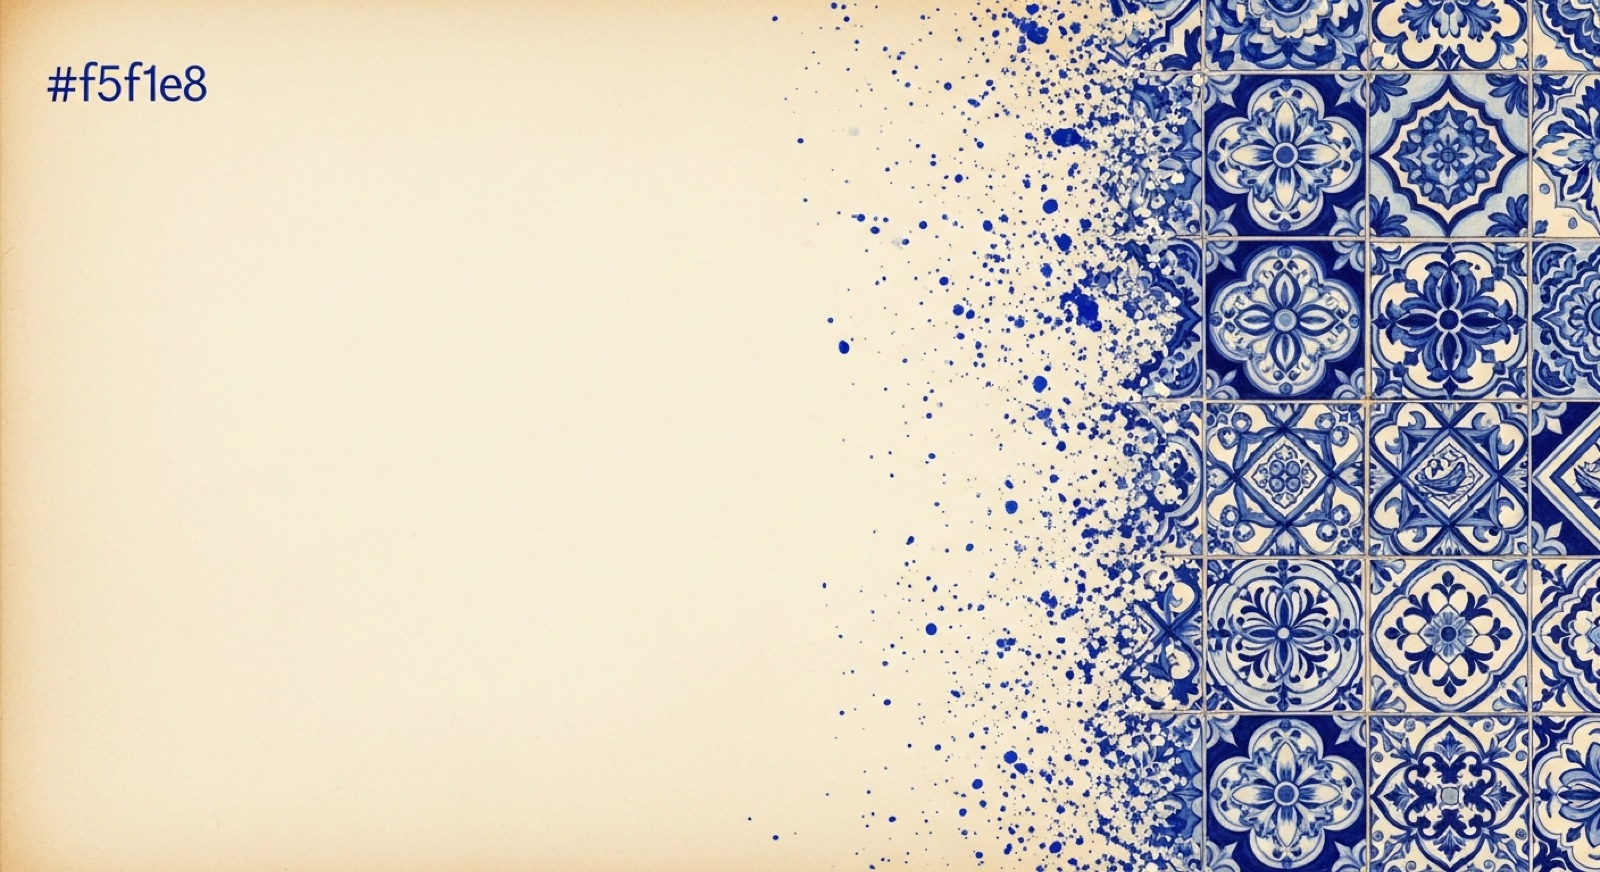
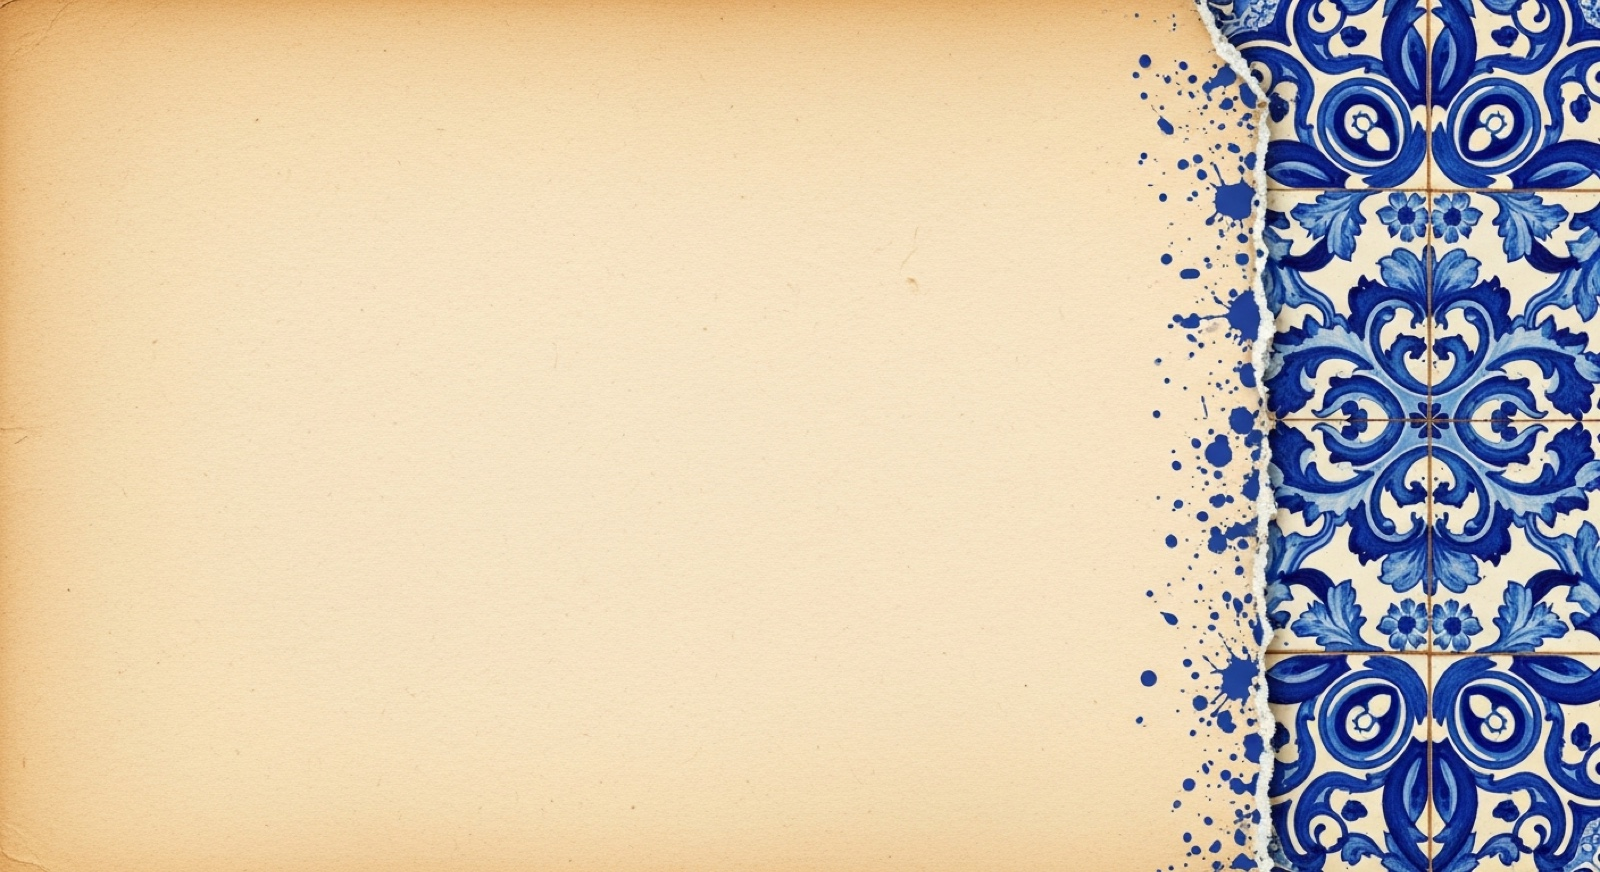
Fix bg-recensioni.jpg: regenerated without Imagen text artifact
Also update API key in gen_backgrounds.py.

diff --git a/belvedere/mareluna/assets/gen_backgrounds.py b/belvedere/mareluna/assets/gen_backgrounds.py
@@ -2,7 +2,7 @@
 """Generate section background images via Google Imagen 4."""
 import base64, json, os, subprocess, requests
 
-API_KEY = "AIzaSyC0GxjzTeLU3hfioBx7MDW4FtbynzXhwGU"
+API_KEY = "AIzaSyDe0KI-k4aip5ufMKi0WjnCYNfy6IrUkNI"
 BASE_URL = "https://generativelanguage.googleapis.com/v1beta/models/imagen-4.0-generate-001:predict?key=" + API_KEY
 OUT = os.path.dirname(os.path.abspath(__file__))
 
